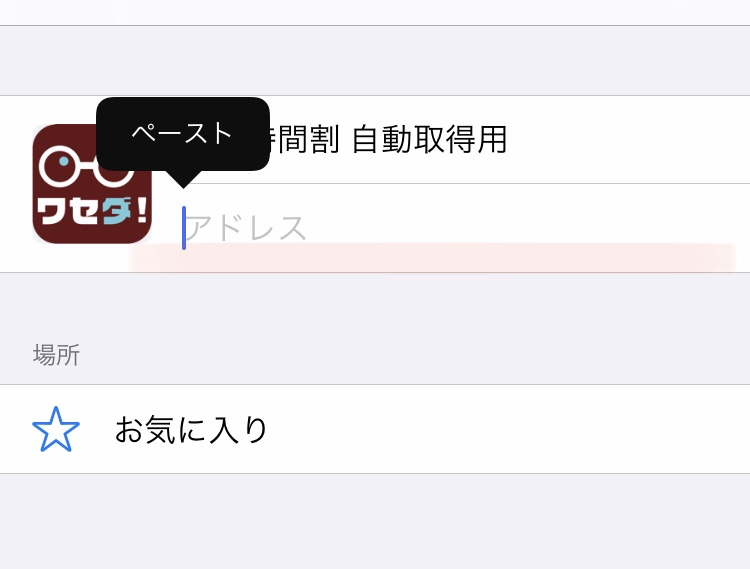
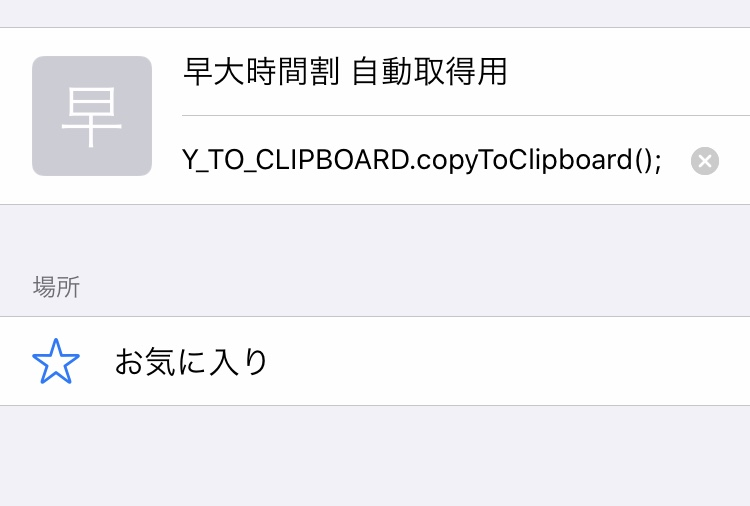
update

diff --git a/getTimetable_android.html b/getTimetable_android.html
@@ -50,31 +50,33 @@
         <p ><input id="copyTarget" type="text" value='javascript:var global=window;global.COPY_TO_CLIPBOARD=global.COPY_TO_CLIPBOARD||{};global.COPY_TO_CLIPBOARD.copyToClipboard=function(){var a=document.createElement("textarea");a.textContent=document.body.outerHTML;var b=document.getElementsByTagName("body")[0];b.appendChild(a);a.contentEditable=!0;a.readOnly=!1;a.setSelectionRange(0,999999);document.execCommand("copy");b.removeChild(a)};global.COPY_TO_CLIPBOARD.copyToClipboard();' readonly></p>
           </div>
 
-            <p class="mt-5 border-left border-primary" style="font-size:1.3rem;">　操作3</p>
+             <p class="mt-5 border-left border-primary" style="font-size:1.3rem;">　操作3</p>
       <div class="row">
-        <p class="mx-3">先ほどお気に入りにしたものの編集画面を開く。URL部分をコピーしたものと全て置き換える。</p>
+        <p class="mx-3">Safari下部の本マークをタップし、一番左にあるお気に入り(これも本マーク)を開く。右下の編集をタップし、「早大時間割 自動取得用」を選択。すると編集ページが開きますので、URL部分を先程コピーしたものに置き換えて完了を押します。</p>
+        <img  class="mx-auto d-block" width="100%" height="100%" src="./data/adress.jpg" alt="image">
             </div>
 
-            <p class="mt-5 border-left border-primary" style="font-size:1.3rem;">　操作4</p>
+         <p class="mt-5 border-left border-primary" style="font-size:1.3rem;">　操作4</p>
       <div class="row">
-        <p class="mx-3">新しくCourseN@vi(通常版)を開く。</p>
+        <p class="mx-3">新しいタブでCourseN@viを開く。</p>
             </div>
 
              <p class="mt-5 border-left border-primary" style="font-size:1.3rem;">　操作5</p>
       <div class="row">
-        <p class="mx-3">検索タブを押してください(画像の赤い部分を参照してください)</p>
+        <p class="mx-3">検索タブを押す (画像の赤い部分)</p>
         <img  class="mx-auto d-block" width="100%" height="100%" src="./data/search.jpg" alt="image">
             </div>
 
             <p class="mt-5 border-left border-primary" style="font-size:1.3rem;">　操作6</p>
       <div class="row">
-        <p class="mx-3">開講年度をアプリ内の年度に合わせ、「すべて」にチェックした後、検索を押す(画像の赤い部分を参照してください)</p>
+        <p class="mx-3">開講年度をアプリ内の年度に合わせ、「すべて」にチェックした後、検索を押す(画像の赤い部分)</p>
         <img  class="mx-auto d-block" width="100%" height="100%" src="./data/search2.jpg" alt="image">
             </div>
 
             <p class="mt-5 border-left border-primary" style="font-size:1.3rem;">　操作7</p>
             <div class="row">
-              <p class="mx-3">CourseN@viの画面で先ほどお気に入り登録したものをタップする(何も起こらないのが正常です)</p>
+              <p class="mx-3">CourseN@viの画面を開いた状態で、下の本マークをタップ。お気に入りから、先程URLを編集した「早大時間割 自動取得用」をタップします。(このとき、何も起こらないのが正常です。) </p>
+              <img  class="mx-auto d-block" width="100%" height="100%" src="./data/favorite.jpg" alt="image">
                   </div>
 
                   <p class="mt-5 border-left border-primary" style="font-size:1.3rem;">　操作8</p>

diff --git a/getTimetable_ios.html b/getTimetable_ios.html
@@ -53,13 +53,13 @@
 
             <p class="mt-5 border-left border-primary" style="font-size:1.3rem;">　操作3</p>
       <div class="row">
-        <p class="mx-3">先ほどお気に入りにしたものの編集画面を開く。画像赤線部分を全て消し、ペーストする</p>
+        <p class="mx-3">Safari下部の本マークをタップし、一番左にあるお気に入り(これも本マーク)を開く。右下の編集をタップし、「早大時間割 自動取得用」を選択。すると編集ページが開きますので、URL部分を先程コピーしたものに置き換えて完了を押します。</p>
         <img  class="mx-auto d-block" width="100%" height="100%" src="./data/adress.jpg" alt="image">
             </div>
 
             <p class="mt-5 border-left border-primary" style="font-size:1.3rem;">　操作4</p>
       <div class="row">
-        <p class="mx-3">新しくCourseN@vi(通常版)を開く。</p>
+        <p class="mx-3">新しいタブでCourseN@viを開く。</p>
             </div>
 
             <p class="mt-5 border-left border-primary" style="font-size:1.3rem;">　操作5</p>
@@ -76,7 +76,7 @@
 
             <p class="mt-5 border-left border-primary" style="font-size:1.3rem;">　操作7</p>
             <div class="row">
-              <p class="mx-3">CourseN@viの画面で先ほどお気に入り登録したものをタップする(何も起こらないのが正常です)</p>
+              <p class="mx-3">CourseN@viの画面を開いた状態で、下の本マークをタップ。先程URLを編集した「早大時間割 自動取得用」をタップします。(このとき、何も起こらないのが正常です。)</p>
                   </div>
 
                   <p class="mt-5 border-left border-primary" style="font-size:1.3rem;">　操作8</p>
